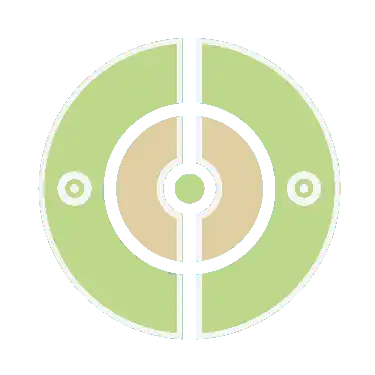
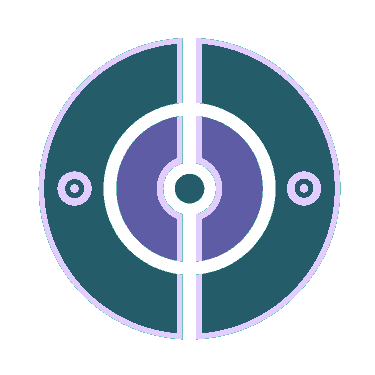
MapColors

diff --git a/scripts/generateMapThumbnails.ts b/scripts/generateMapThumbnails.ts
@@ -1,0 +1,220 @@
+/**
+ * Draws each map's picker / lobby-card thumbnail from its terrain with the
+ * game's own terrain colors, so the cards always match what the map looks
+ * like in game:
+ *
+ *   resources/maps/<folder>/thumbnail.webp   450×450 for a 1800×1800 map
+ *
+ * Land is colored by `encodeTerrainTile()` (src/client/render/gl/utils/
+ * ColorUtils.ts) with the `terrain` defaults in render-settings.json, the
+ * same rule TerrainPass uses. Deep space and impassable void stay transparent,
+ * as they always have, so the card's own background shows through. The image
+ * is map4x sampled at every second tile (half of map4x, the size the Go
+ * map-generator used to write).
+ *
+ *   npx tsx scripts/generateMapThumbnails.ts               # every map
+ *   npx tsx scripts/generateMapThumbnails.ts eventhorizon  # named folders
+ *   npx tsx scripts/generateMapThumbnails.ts --check       # verify, write nothing
+ *
+ * The map kit (`npm run map`) runs this after the Go map-generator, which
+ * still writes its own green thumbnail first.
+ *
+ * Encoding uses the Chromium that Playwright ships (lossless WebP), as
+ * generateSpriteAtlases.ts does for its icons. The colors used are recorded in
+ * scripts/map-thumbnail-colors.json; tests/MapThumbnails.test.ts fails when
+ * render-settings.json's terrain colors change without a rerun.
+ */
+
+import fs from "fs";
+import path from "path";
+import { fileURLToPath, pathToFileURL } from "url";
+import renderDefaults from "../src/client/render/gl/render-settings.json";
+import {
+  encodeTerrainTile,
+  hexToRgb,
+  TerrainColorOverrides,
+} from "../src/client/render/gl/utils/ColorUtils";
+
+const ROOT = path.join(path.dirname(fileURLToPath(import.meta.url)), "..");
+const MAPS = path.join(ROOT, "resources", "maps");
+export const COLORS_FILE = path.join(
+  ROOT,
+  "scripts",
+  "map-thumbnail-colors.json",
+);
+
+/** The terrain colors a thumbnail is drawn with (land only; space is clear). */
+export interface ThumbnailColors {
+  sandColor: string;
+  plainsColor: string;
+  highlandColor: string;
+  mountainColor: string;
+}
+
+export function currentThumbnailColors(): ThumbnailColors {
+  const t = renderDefaults.terrain;
+  return {
+    sandColor: t.sandColor.toLowerCase(),
+    plainsColor: t.plainsColor.toLowerCase(),
+    highlandColor: t.highlandColor.toLowerCase(),
+    mountainColor: t.mountainColor.toLowerCase(),
+  };
+}
+
+/**
+ * RGBA pixels for a thumbnail of half map4x's size. Land tiles take
+ * encodeTerrainTile's color, opaque; water and impassable void are
+ * transparent black.
+ */
+export function buildThumbnailRGBA(
+  map4x: Uint8Array,
+  width4x: number,
+  height4x: number,
+  colors: ThumbnailColors,
+): { width: number; height: number; pixels: Uint8Array } {
+  const overrides: TerrainColorOverrides = {
+    sandColor: hexToRgb(colors.sandColor)!,
+    plainsColor: hexToRgb(colors.plainsColor)!,
+    highlandColor: hexToRgb(colors.highlandColor)!,
+    mountainColor: hexToRgb(colors.mountainColor)!,
+  };
+  const width = Math.max(1, Math.floor(width4x / 2));
+  const height = Math.max(1, Math.floor(height4x / 2));
+  const pixels = new Uint8Array(width * height * 4);
+  for (let y = 0; y < height; y++) {
+    for (let x = 0; x < width; x++) {
+      const tb = map4x[y * 2 * width4x + x * 2];
+      const isLand = (tb & 0x80) !== 0;
+      const impassable = isLand && (tb & 0x1f) === 31;
+      if (!isLand || impassable) continue; // stays transparent
+      encodeTerrainTile(tb, pixels, (y * width + x) * 4, overrides);
+    }
+  }
+  return { width, height, pixels };
+}
+
+type Browser = import("playwright").Browser;
+
+async function encodeWebp(
+  browser: Browser,
+  img: { width: number; height: number; pixels: Uint8Array },
+): Promise<Buffer> {
+  const page = await browser.newPage();
+  try {
+    const b64 = await page.evaluate(
+      async ({ width, height, data }) => {
+        const bytes = Uint8ClampedArray.from(atob(data), (c) =>
+          c.charCodeAt(0),
+        );
+        const canvas = new OffscreenCanvas(width, height);
+        canvas
+          .getContext("2d")!
+          .putImageData(new ImageData(bytes, width, height), 0, 0);
+        // quality 1 is lossless in Chromium (checked pixel-for-pixel).
+        const blob = await canvas.convertToBlob({
+          type: "image/webp",
+          quality: 1,
+        });
+        const out = new Uint8Array(await blob.arrayBuffer());
+        let s = "";
+        for (const v of out) s += String.fromCharCode(v);
+        return btoa(s);
+      },
+      {
+        width: img.width,
+        height: img.height,
+        data: Buffer.from(img.pixels).toString("base64"),
+      },
+    );
+    return Buffer.from(b64, "base64");
+  } finally {
+    await page.close();
+  }
+}
+
+function readColorsFile(): ThumbnailColors | null {
+  if (!fs.existsSync(COLORS_FILE)) return null;
+  return JSON.parse(fs.readFileSync(COLORS_FILE, "utf8")) as ThumbnailColors;
+}
+
+async function main(): Promise<void> {
+  const args = process.argv.slice(2);
+  const check = args.includes("--check");
+  const named = args.filter((a) => !a.startsWith("--"));
+  const colors = currentThumbnailColors();
+
+  if (check) {
+    const recorded = readColorsFile();
+    if (JSON.stringify(recorded) !== JSON.stringify(colors)) {
+      console.error(
+        "Map thumbnails are out of date with render-settings.json's terrain " +
+          "colors. Run: npx tsx scripts/generateMapThumbnails.ts",
+      );
+      process.exit(1);
+    }
+    console.log("Map thumbnails match the terrain colors.");
+    return;
+  }
+
+  const folders =
+    named.length > 0
+      ? named
+      : fs
+          .readdirSync(MAPS)
+          .filter((f) => fs.existsSync(path.join(MAPS, f, "map4x.bin")));
+  for (const f of folders) {
+    if (!fs.existsSync(path.join(MAPS, f, "map4x.bin"))) {
+      throw new Error(`No map4x.bin in resources/maps/${f}`);
+    }
+  }
+
+  let playwright: typeof import("playwright");
+  try {
+    playwright = await import("playwright");
+  } catch {
+    throw new Error(
+      "Thumbnails are encoded with Playwright's Chromium, which is not " +
+        "installed: npm i --no-save playwright && npx playwright install chromium",
+    );
+  }
+  const browser = await playwright.chromium.launch();
+  try {
+    for (const folder of folders) {
+      const dir = path.join(MAPS, folder);
+      const manifest = JSON.parse(
+        fs.readFileSync(path.join(dir, "manifest.json"), "utf8"),
+      ) as { map4x: { width: number; height: number } };
+      const map4x = new Uint8Array(
+        fs.readFileSync(path.join(dir, "map4x.bin")),
+      );
+      const img = buildThumbnailRGBA(
+        map4x,
+        manifest.map4x.width,
+        manifest.map4x.height,
+        colors,
+      );
+      const webp = await encodeWebp(browser, img);
+      fs.writeFileSync(path.join(dir, "thumbnail.webp"), webp);
+      console.log(
+        `${folder}: ${img.width}×${img.height}, ${(webp.length / 1024).toFixed(1)} KB`,
+      );
+    }
+  } finally {
+    await browser.close();
+  }
+  // Record the colors only after a full run, so a partial run (one new map)
+  // can't mark every other thumbnail as current.
+  if (named.length === 0) {
+    fs.writeFileSync(COLORS_FILE, JSON.stringify(colors, null, 2) + "\n");
+  }
+}
+
+if (
+  process.argv[1] !== undefined &&
+  import.meta.url === pathToFileURL(process.argv[1]).href
+) {
+  main().catch((e: unknown) => {
+    console.error(e instanceof Error ? e.message : e);
+    process.exit(1);
+  });
+}

diff --git a/tests/MapThumbnails.test.ts b/tests/MapThumbnails.test.ts
@@ -1,0 +1,56 @@
+import fs from "fs";
+import {
+  buildThumbnailRGBA,
+  COLORS_FILE,
+  currentThumbnailColors,
+} from "../scripts/generateMapThumbnails";
+import {
+  encodeTerrainTile,
+  hexToRgb,
+} from "../src/client/render/gl/utils/ColorUtils";
+
+describe("map thumbnails", () => {
+  test("were drawn with the current terrain colors", () => {
+    // Fails when render-settings.json's terrain colors change and the cards
+    // were not redrawn. Fix: npx tsx scripts/generateMapThumbnails.ts
+    const recorded = JSON.parse(fs.readFileSync(COLORS_FILE, "utf8"));
+    expect(recorded).toEqual(currentThumbnailColors());
+  });
+
+  test("color land like the game and leave space and void transparent", () => {
+    const LAND_PLAINS = 0x80 | 4;
+    const LAND_SHORE = 0x80 | 0x40;
+    const VOID = 0x80 | 31;
+    const WATER = 0x20 | 7;
+    // 4×2 map4x → 2×1 thumbnail sampling columns 0 and 2 of row 0.
+    const map4x = new Uint8Array([
+      LAND_PLAINS,
+      WATER,
+      WATER,
+      VOID,
+      LAND_SHORE,
+      LAND_SHORE,
+      LAND_SHORE,
+      LAND_SHORE,
+    ]);
+    const colors = currentThumbnailColors();
+    const { width, height, pixels } = buildThumbnailRGBA(map4x, 4, 2, colors);
+    expect([width, height]).toEqual([2, 1]);
+
+    const expected = new Uint8Array(4);
+    encodeTerrainTile(LAND_PLAINS, expected, 0, {
+      plainsColor: hexToRgb(colors.plainsColor)!,
+    });
+    expect([...pixels.slice(0, 4)]).toEqual([...expected]);
+    expect(pixels[3]).toBe(255);
+    expect([...pixels.slice(4, 8)]).toEqual([0, 0, 0, 0]);
+
+    const voidOnly = buildThumbnailRGBA(
+      new Uint8Array([VOID, VOID]),
+      2,
+      1,
+      colors,
+    );
+    expect([...voidOnly.pixels]).toEqual([0, 0, 0, 0]);
+  });
+});

diff --git a/src/client/components/EffectPreview.ts b/src/client/components/EffectPreview.ts
@@ -14,6 +14,7 @@ import {
   StructuresEffectAttributes,
   TrailEffectAttributes,
 } from "../../core/CosmeticSchemas";
+import renderDefaults from "../render/gl/render-settings.json";
 
 // ---------------------------------------------------------------------------
 // Scene previews — a tiny slice of the map, in tile units, drawn the way the
@@ -32,9 +33,14 @@ export type SceneEffect = Exclude<Effect, { effectType: "nukeExplosion" }>;
 const PLAYER = colord("#4ade80");
 const PLAYER_COLOR = PLAYER.toHex();
 const BORDER_COLOR = PLAYER.darken(0.125).toHex();
-// Terrain (render-settings.json): deep water and plains.
-const WATER = "#4785b5";
-const PLAINS = "#bedc8a";
+// Terrain (render-settings.json): deep space and plains. Deep space is the
+// ocean color at oceanAlpha over the background, without the starfield.
+const WATER = mixRgb(
+  renderDefaults.terrain.backgroundColor,
+  renderDefaults.terrain.oceanColor,
+  renderDefaults.terrain.oceanAlpha,
+);
+const PLAINS = renderDefaults.terrain.plainsColor;
 // Territory and trails paint over terrain at mapOverlay.territoryAlpha /
 // trailAlpha.
 const TERRITORY_ALPHA = 0.588;

diff --git a/src/scripts/makeMap.ts b/src/scripts/makeMap.ts
@@ -118,6 +118,16 @@ function generate(folder: string): void {
   if (!run(go, ["run", ".", `--maps=${folder}`], GENERATOR)) {
     throw new KitError("The map generator failed; its messages are above.");
   }
+  // The Go generator writes a thumbnail in its own fixed colors; redraw it in
+  // the game's terrain colors (scripts/generateMapThumbnails.ts).
+  const tsx = path.join(ROOT, "node_modules/tsx/dist/cli.mjs");
+  const thumbnails = path.join(ROOT, "scripts/generateMapThumbnails.ts");
+  if (!run(process.execPath, [tsx, thumbnails, folder], ROOT)) {
+    console.log(
+      `\nThe thumbnail for ${folder} is still the generator's green one; ` +
+        `rerun: npx tsx scripts/generateMapThumbnails.ts ${folder}`,
+    );
+  }
 }
 
 function report(title: string, lines: string[]): void {

diff --git a/docs/DarkStar-Design.md b/docs/DarkStar-Design.md
@@ -667,8 +667,9 @@ persistence was OpenFront's closed-source API, which we do not have.
   overthrow under 15 minutes; a true equidistant first build with the exclusion at 400 (10° N
   there) went 2 of 3 at 18 minutes.
   `src/scripts/drawings/Polar.ts`.
-- **Gap:** terrain colours are global, not per-map, and map thumbnails are hard-coded
-  blue-sea/green-land in `map-generator/map_generator.go` (`getThumbnailColor`).
+- **Gap:** terrain colours are global, not per-map. Map thumbnails follow the global terrain
+  defaults: `scripts/generateMapThumbnails.ts` redraws them after the Go generator, whose own
+  `getThumbnailColor` colours are overwritten (2026-10-17).
 
 ### 5.4 Presentation
 
@@ -2169,6 +2170,20 @@ hydrogen-bomb removal (closed by S6).
   reign; **Longest reign** is the most consecutive rounds as Hegemon on one throne, never carried
   across thrones. The throne card's badge keeps its own counter (Lobbies §3.1). The recorded
   numbers are rebuilt under the new rule by the API's third migration.
+- **2026-10-17** — **Aurora terrain; thumbnails drawn in the game's colors.** Tom's call, from six
+  palettes compared on Event Horizon (Nebula Dust was tried first and dropped the same day): the
+  inherited grass/sand/snow land read as an Earth map, and green Barons nearly vanished on green
+  plains. The `terrain` defaults in `render-settings.json` become teal lowlands rising to violet
+  (plains `#24606a`, highland `#5a58a0`, mountain `#d2bff7`, coast `#6cc4b8`) with darker deep
+  space (`oceanColor` `#2c3149` at 0.5, `backgroundColor` `#070910`) so nebulae stand
+  off it. Players' own terrain overrides still win. The cosmetics effect preview reads its
+  backdrop from the same defaults. Map thumbnails (picker and lobby cards) are no longer the Go
+  generator's fixed green: `scripts/generateMapThumbnails.ts` (`npm run gen-thumbnails`) redraws
+  every `thumbnail.webp` from `map4x.bin` with `encodeTerrainTile()` and the defaults, space
+  still transparent, same sizes; the map kit runs it after the generator, and
+  `tests/MapThumbnails.test.ts` fails when the terrain colors change without a rerun. Not done:
+  the "Evan's pick" graphics preset keeps its own blue-and-green terrain, and a player's own
+  terrain override recolors the map but not the cards.
 - **2026-10-17** — **The help page explains piracy; FFA map weights equalised.** For the friends
   test of 2026-10-18. The rules page gains a _Piracy_ section (six lines, every number read from
   `PIRACY_DEFAULTS`, troops in on-screen units) after the economy it preys on; the round's

diff --git a/docs/MapMaking.md b/docs/MapMaking.md
@@ -128,8 +128,10 @@ your user folder. If it cannot find it, it says so.
 
 `src/scripts/makeMap.ts` reads the PNG (`mapkit/Png.ts`), converts it (`mapkit/Convert.ts`), writes
 the Lords and the Dark Star into `info.json` (`mapkit/Info.ts`), and runs the Go map-generator
-(`map-generator/README.md`), which produces the files the game loads. Tests are in
-`tests/MapKit.test.ts`.
+(`map-generator/README.md`), which produces the files the game loads. It then redraws the map's
+thumbnail in the game's terrain colors (`scripts/generateMapThumbnails.ts`, which needs
+Playwright's Chromium; `npm run gen-thumbnails` redraws them all after a terrain color change).
+Tests are in `tests/MapKit.test.ts` and `tests/MapThumbnails.test.ts`.
 
 ## Generated drawings
 
